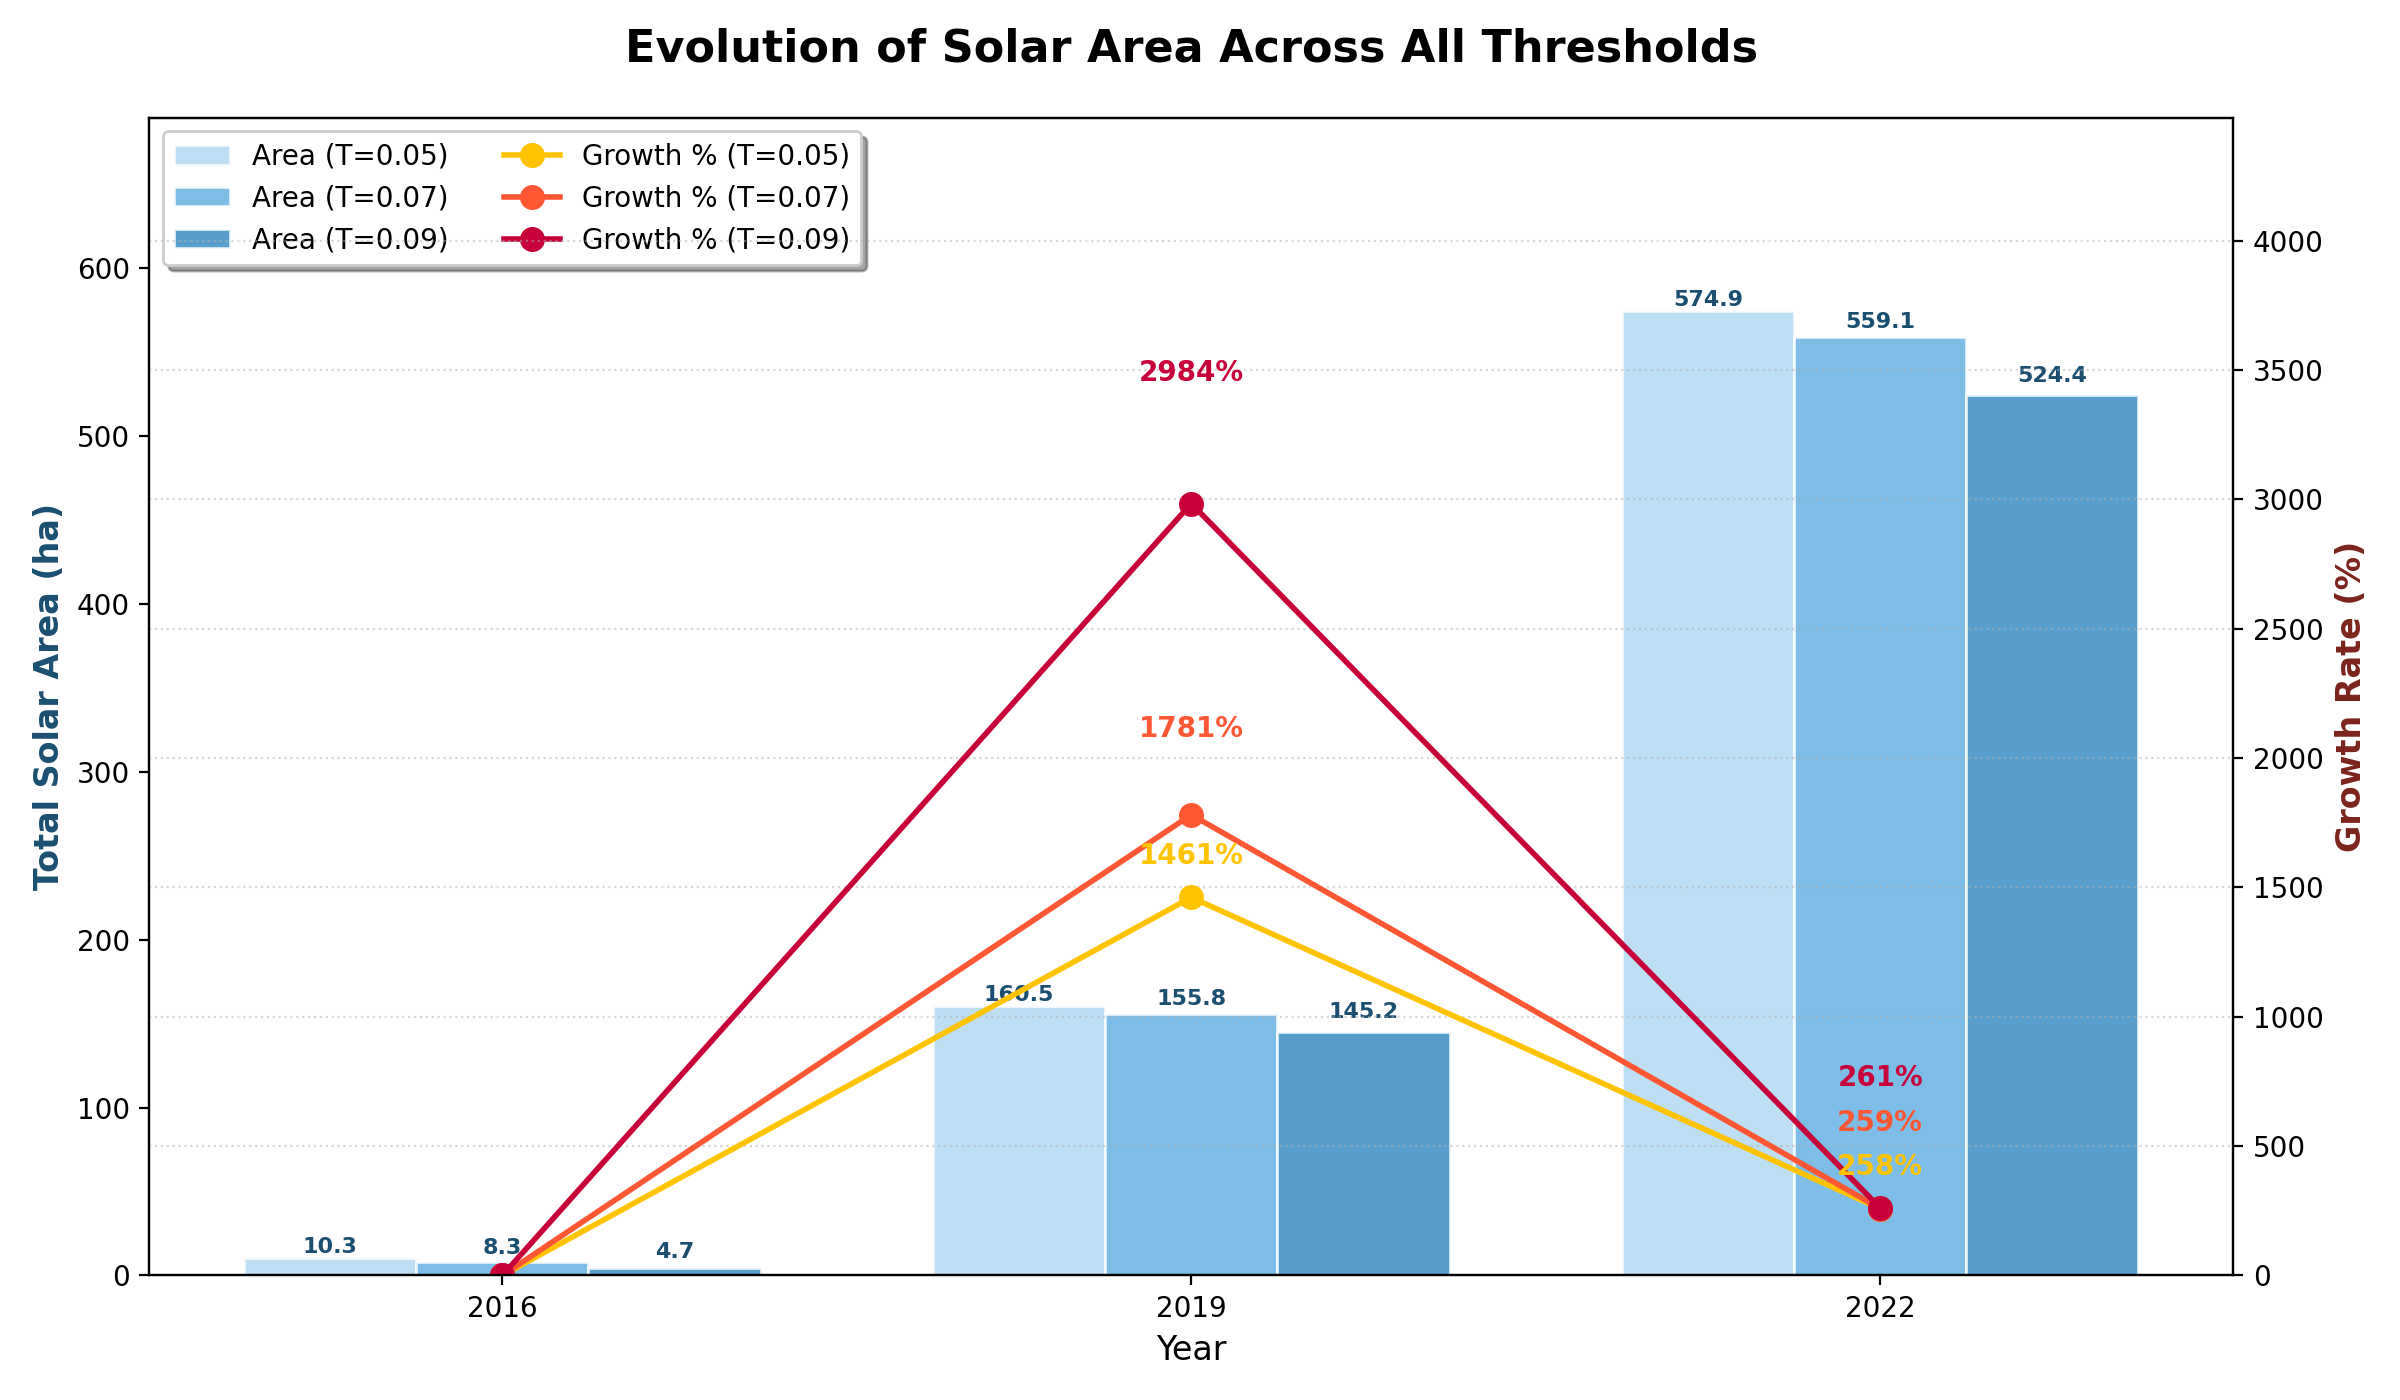
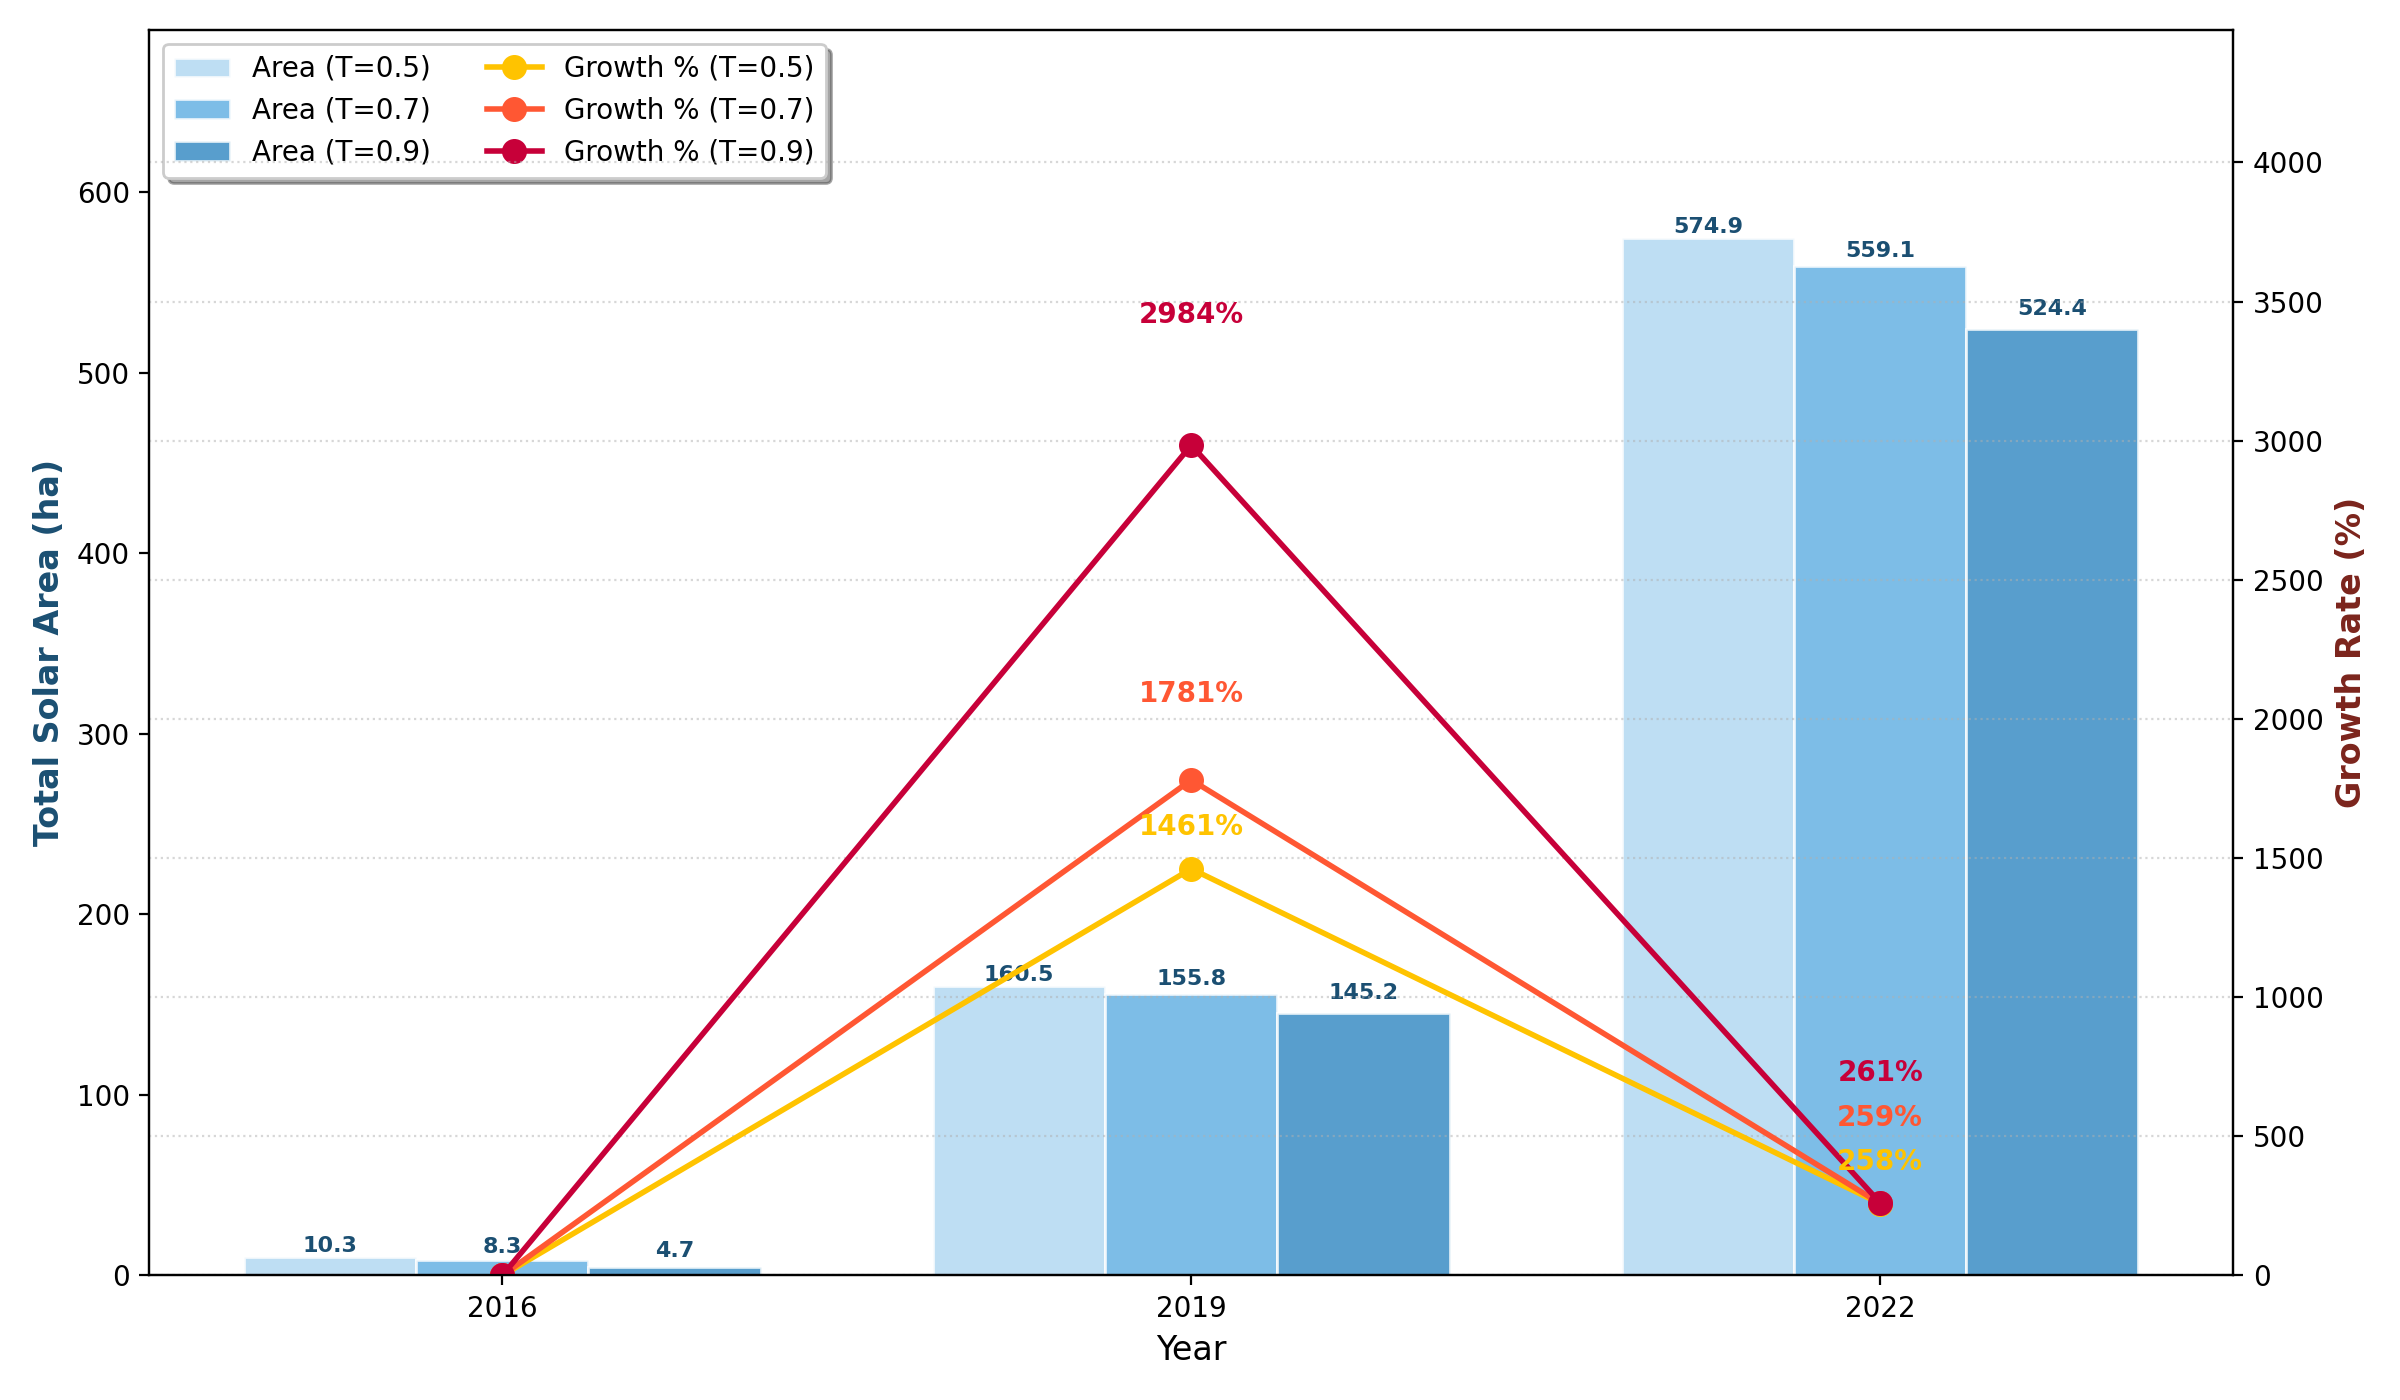
solar area updated

diff --git a/src/03_calculate_solar_area.py b/src/03_calculate_solar_area.py
@@ -92,7 +92,7 @@ def process_all_data():
             if stats:
                 threshold_results.append({
                     'year': year,
-                    'threshold': f"0.{threshold}",
+                    'threshold': f"{int(threshold)/10}",
                     'area_ha': stats['total_area_ha'],
                     'study_area_ha': stats['study_area_ha'],
                     'coverage_pct': stats['coverage_pct']
@@ -121,7 +121,7 @@ def plot_evolution_by_threshold(df, threshold, output_path):
     """
     Generates an evolution plot for a specific threshold.
     """
-    data = df[df['threshold'] == f"0.{threshold}"].sort_values('year')
+    data = df[df['threshold'] == f"{int(threshold)/10}"].sort_values('year')
     if data.empty: return
 
     years = data['year'].astype(str).tolist()
@@ -154,7 +154,7 @@ def plot_evolution_by_threshold(df, threshold, output_path):
             ax2.annotate(f'{rate:.1f}%', (years[i], growth_rates[i]), 
                         textcoords="offset points", xytext=(0,10), ha='center', color='red', fontweight='bold')
 
-    plt.title(f'Solar Surface Evolution (Threshold 0.{threshold})', fontsize=14, fontweight='bold')
+    # plt.title(f'Solar Surface Evolution (Threshold 0.{threshold})', fontsize=14, fontweight='bold')
     plt.grid(axis='y', linestyle='--', alpha=0.6)
     fig.tight_layout()
     
@@ -233,7 +233,7 @@ def plot_combined_evolution(df, output_path):
     lines2, labels2 = ax2.get_legend_handles_labels()
     ax1.legend(lines1 + lines2, labels1 + labels2, loc='upper left', ncol=2, frameon=True, shadow=True)
 
-    plt.title('Evolution of Solar Area Across All Thresholds', fontsize=16, fontweight='bold', pad=20)
+    # plt.title('Evolution of Solar Area Across All Thresholds', fontsize=16, fontweight='bold', pad=20)
     plt.grid(axis='y', linestyle=':', alpha=0.5)
     fig.tight_layout()
     
